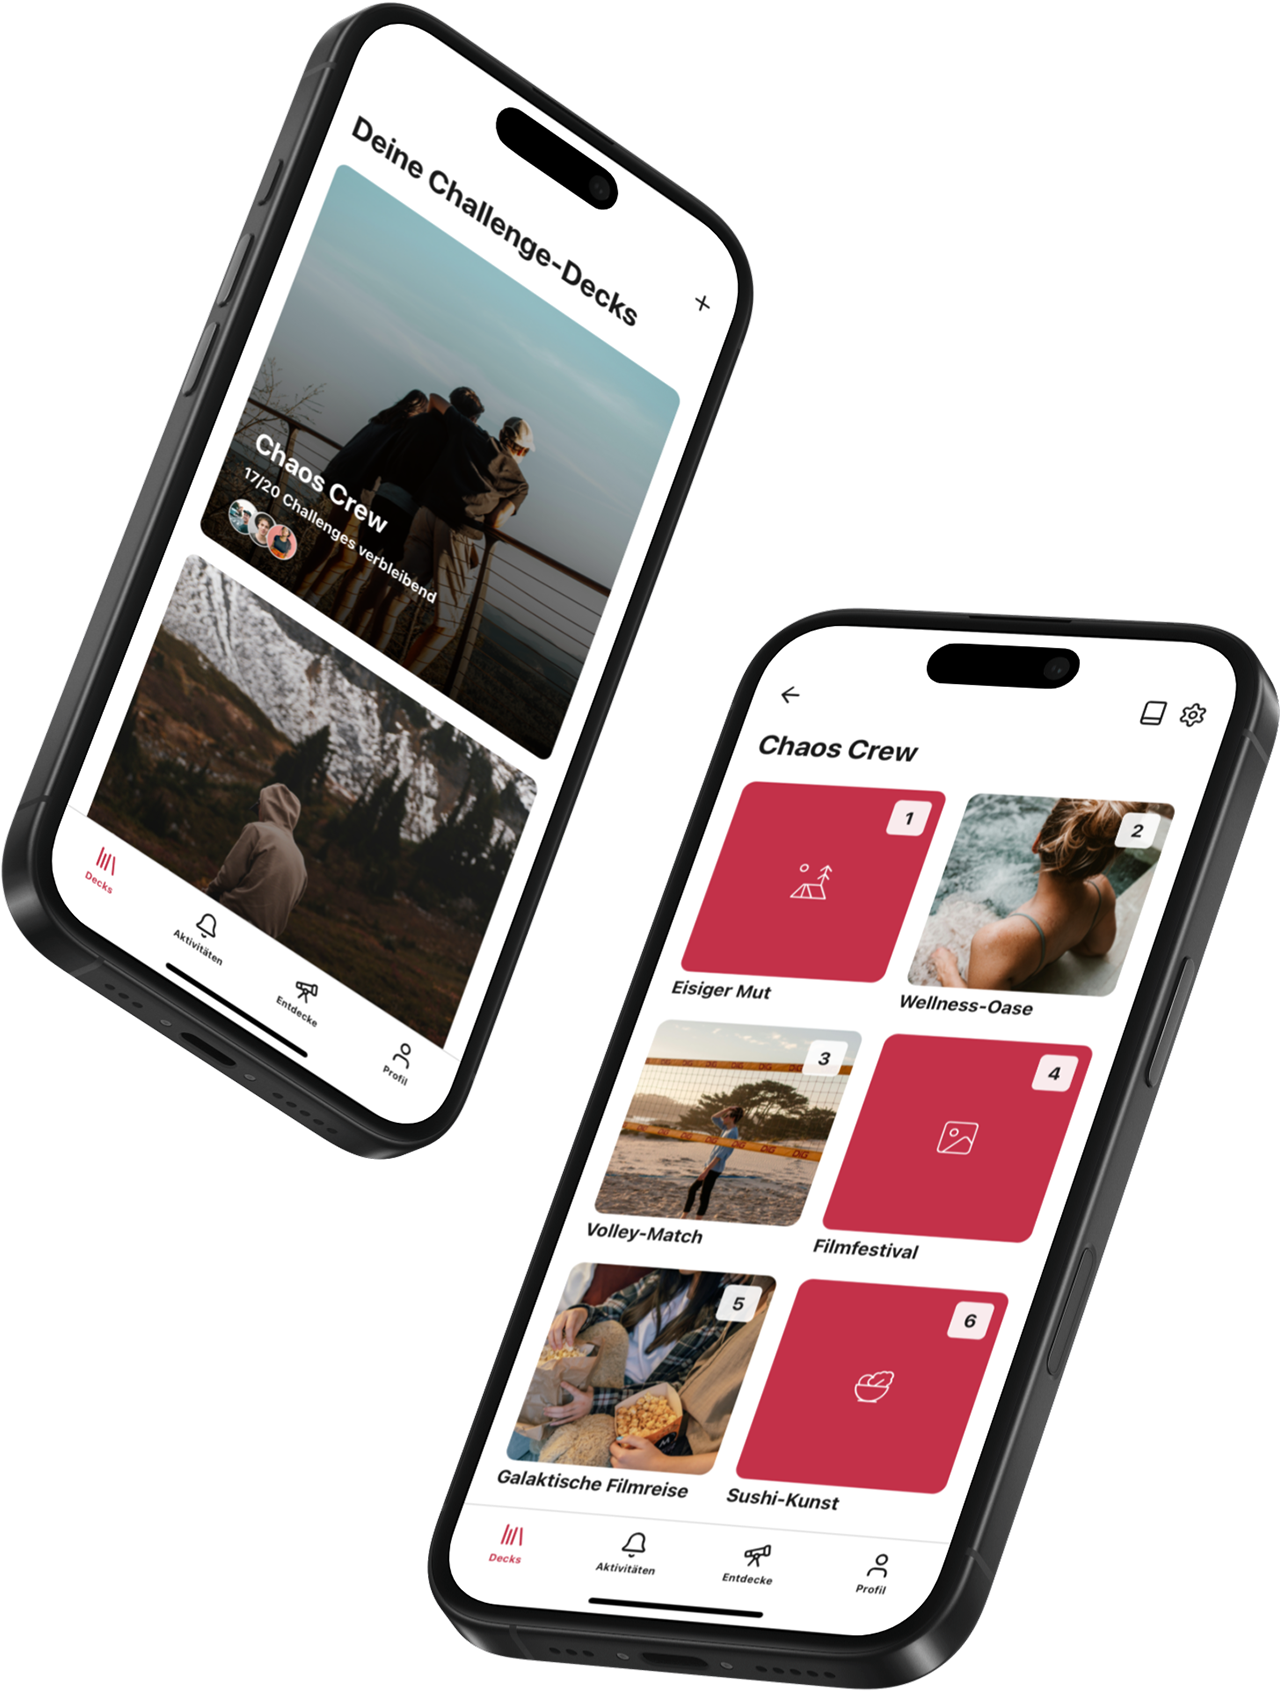
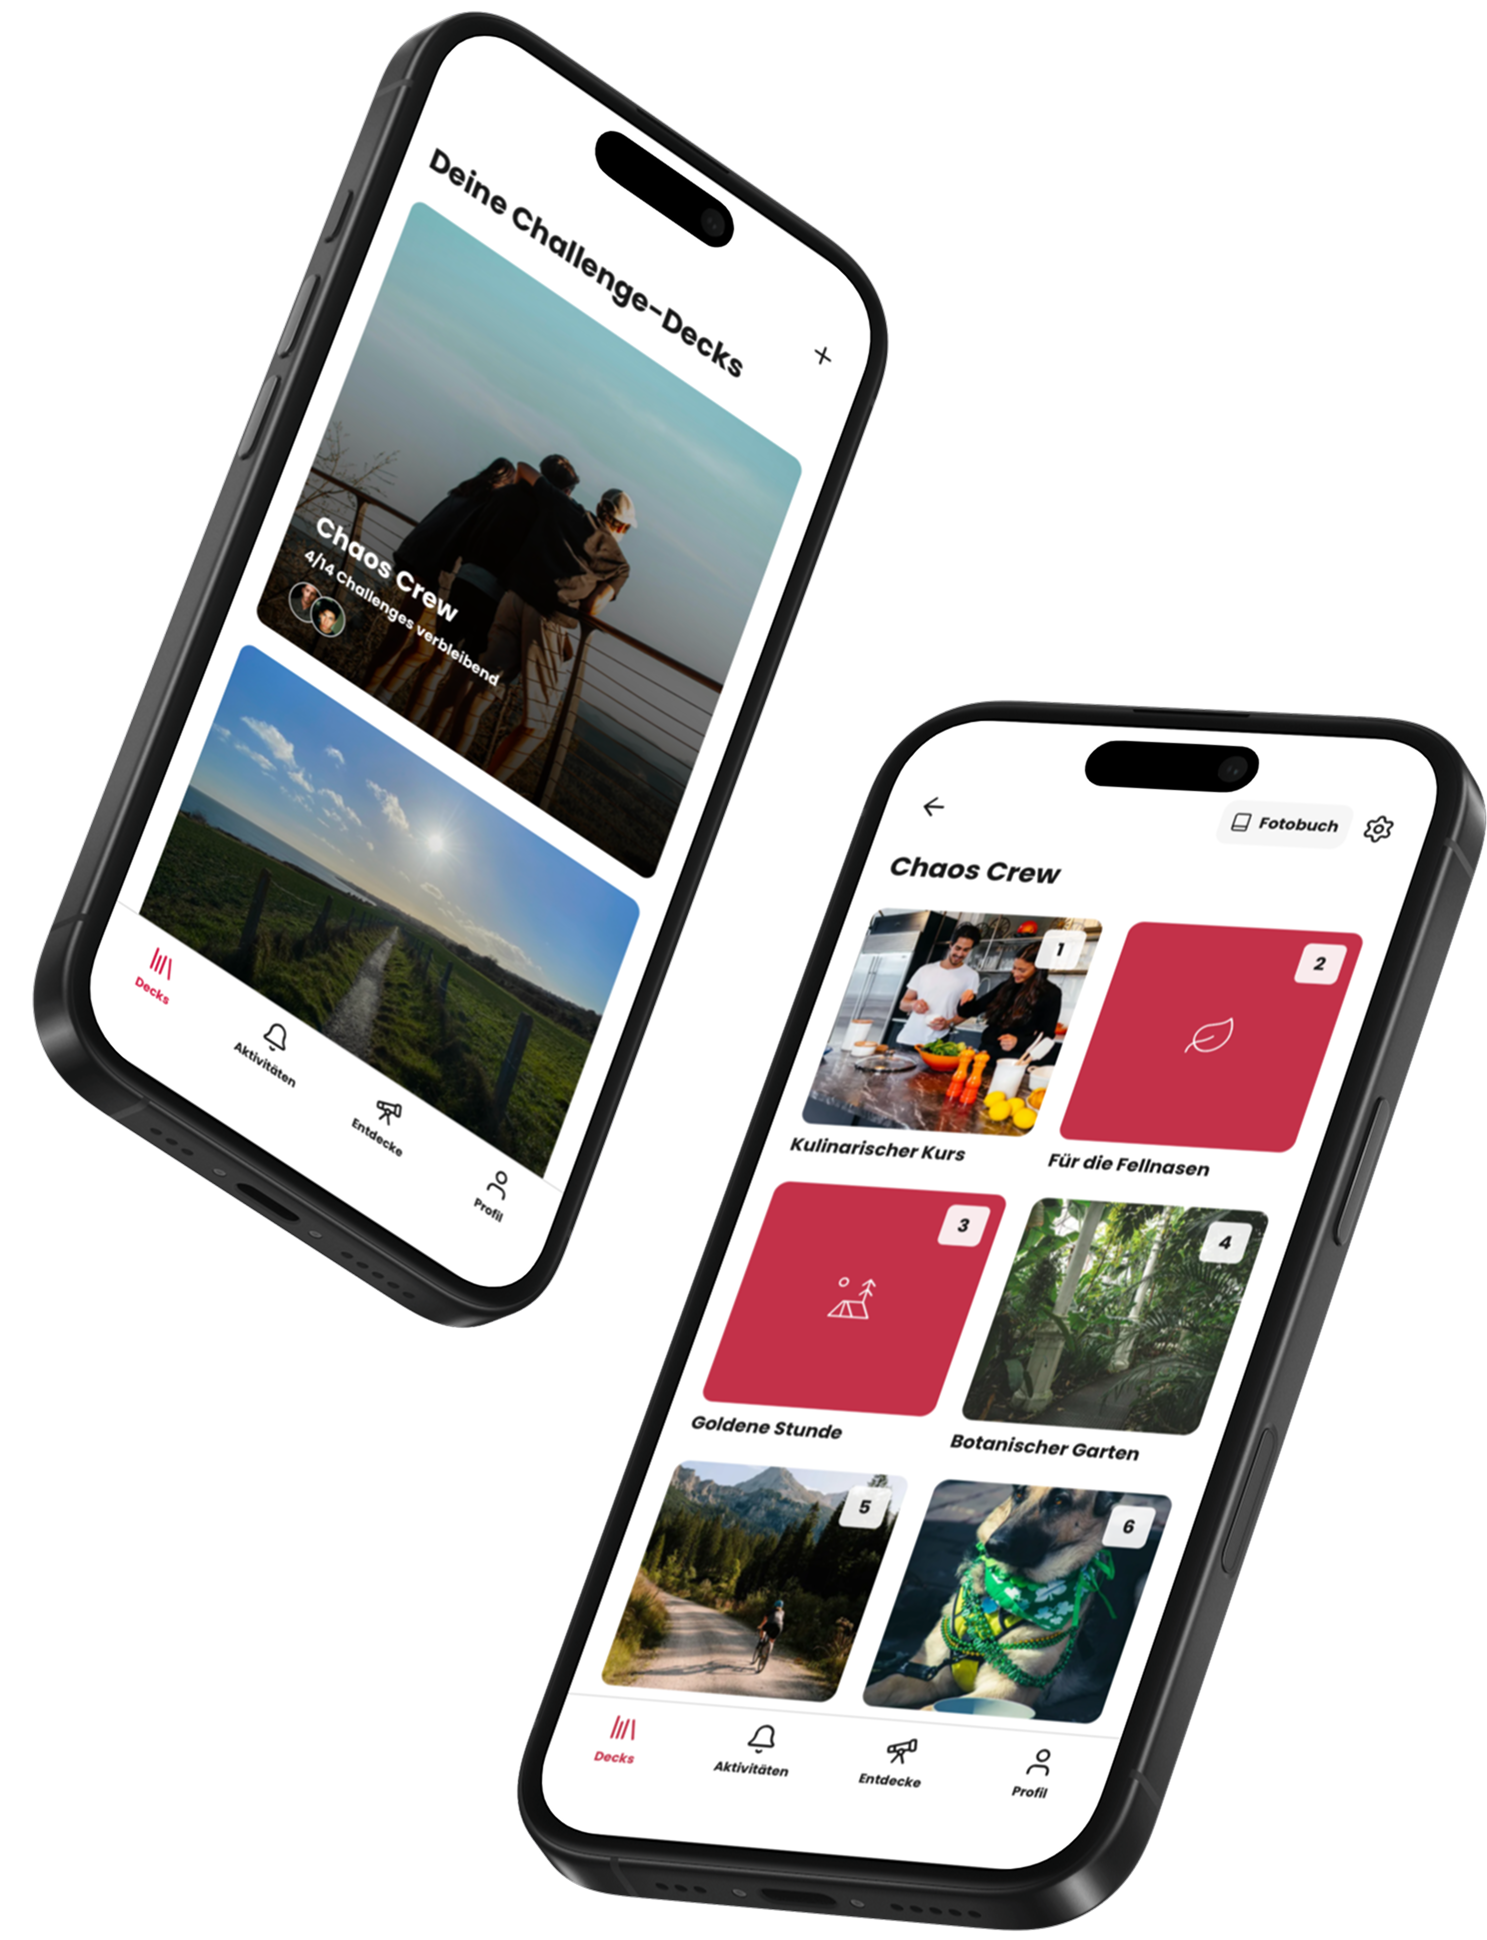
update header styles and replace iPhone images

diff --git a/src/styles/globals/_globals-header.scss b/src/styles/globals/_globals-header.scss
@@ -1,5 +1,5 @@
 .header {
-  position: fixed;
+  // position: fixed;
   padding: rem-calc(25 0);
   top: 0;
   right: 0;
